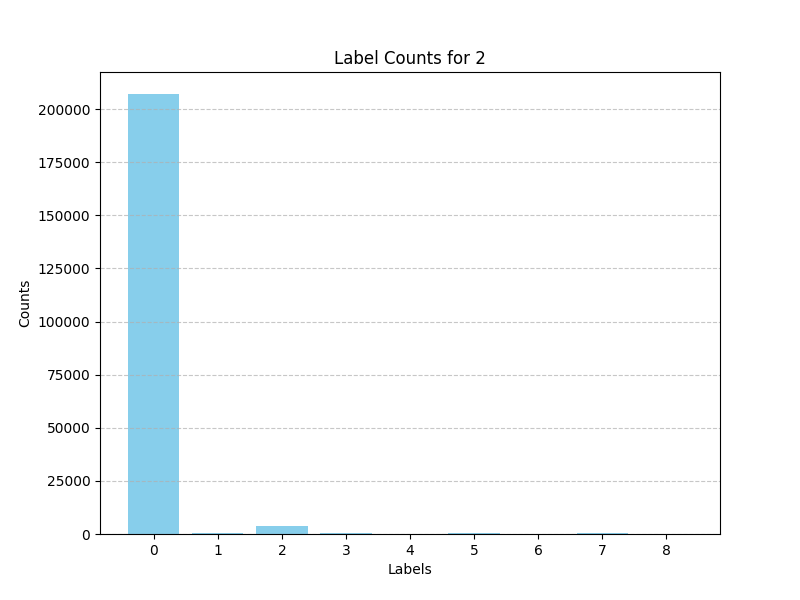
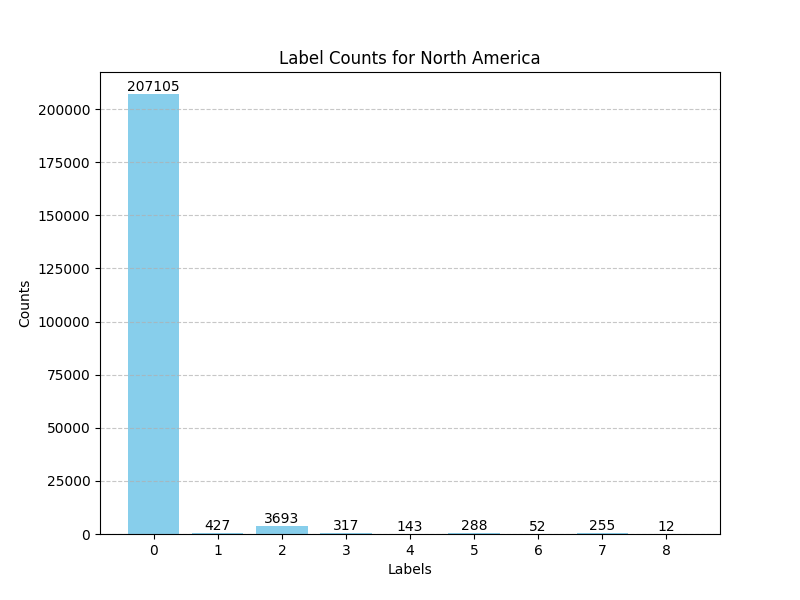
edit individual plots

diff --git a/data_explore.py b/data_explore.py
@@ -37,7 +37,12 @@ warped_array = np.load(os.path.join(warped_data_dir,warped_name))
 frac_map_array = np.load(os.path.join(frac_map_data_dir,frac_map_name))
 time_series_array = np.load(os.path.join(timeseries_data_dir,time_series_name))
 
-continent_dict = {1: 'Asia',
+all_id_labels_realsat_name = np.load('all_IDs_labels_realsat.npy')
+print(np.unique(all_id_labels_realsat_name))
+print(len(all_id_labels_realsat_name))
+
+continent_dict = {0: 'Arctic',
+                  1: 'Asia',
                   2: 'North America',
                   3: 'Europe',
                   4: 'Africa',
@@ -88,17 +93,31 @@ def plot_label_counts(label_info, continent_info):
         labels = list(label_counts.keys())
         counts = list(label_counts.values())
 
+        labels_names = list(labels_dict[l] for l in labels)
+
         plt.figure(figsize=(8, 6))
-        plt.bar(labels, counts, color='skyblue')
-        plt.title(f"Label Counts for {continent}")
+        bars = plt.bar(labels, counts, color='skyblue')
+        plt.title(f"Label Counts for {continent_dict[continent]}")
         plt.xlabel("Labels")
         plt.ylabel("Counts")
         plt.xticks(labels)
         plt.grid(axis='y', linestyle='--', alpha=0.7)
 
+        # Annotate counts above each bar
+        for bar, count in zip(bars, counts):
+            plt.text(
+                bar.get_x() + bar.get_width() / 2,  # X-coordinate of the bar center
+                bar.get_height(),  # Y-coordinate (top of the bar)
+                str(count),  # Text to display
+                ha='center',  # Horizontal alignment
+                va='bottom',  # Vertical alignment
+                fontsize=10,  # Font size
+                color='black'  # Text color
+            )
+
         # Save plot to file with the name of the continent
         filename = f"{continent}_label_counts.png"
-        plt.savefig(filename)
+        plt.savefig(os.path.join('figures', filename))
         plt.close()  # Close the figure to free memory
         print(f"Saved plot for {continent} as {filename}")
 
